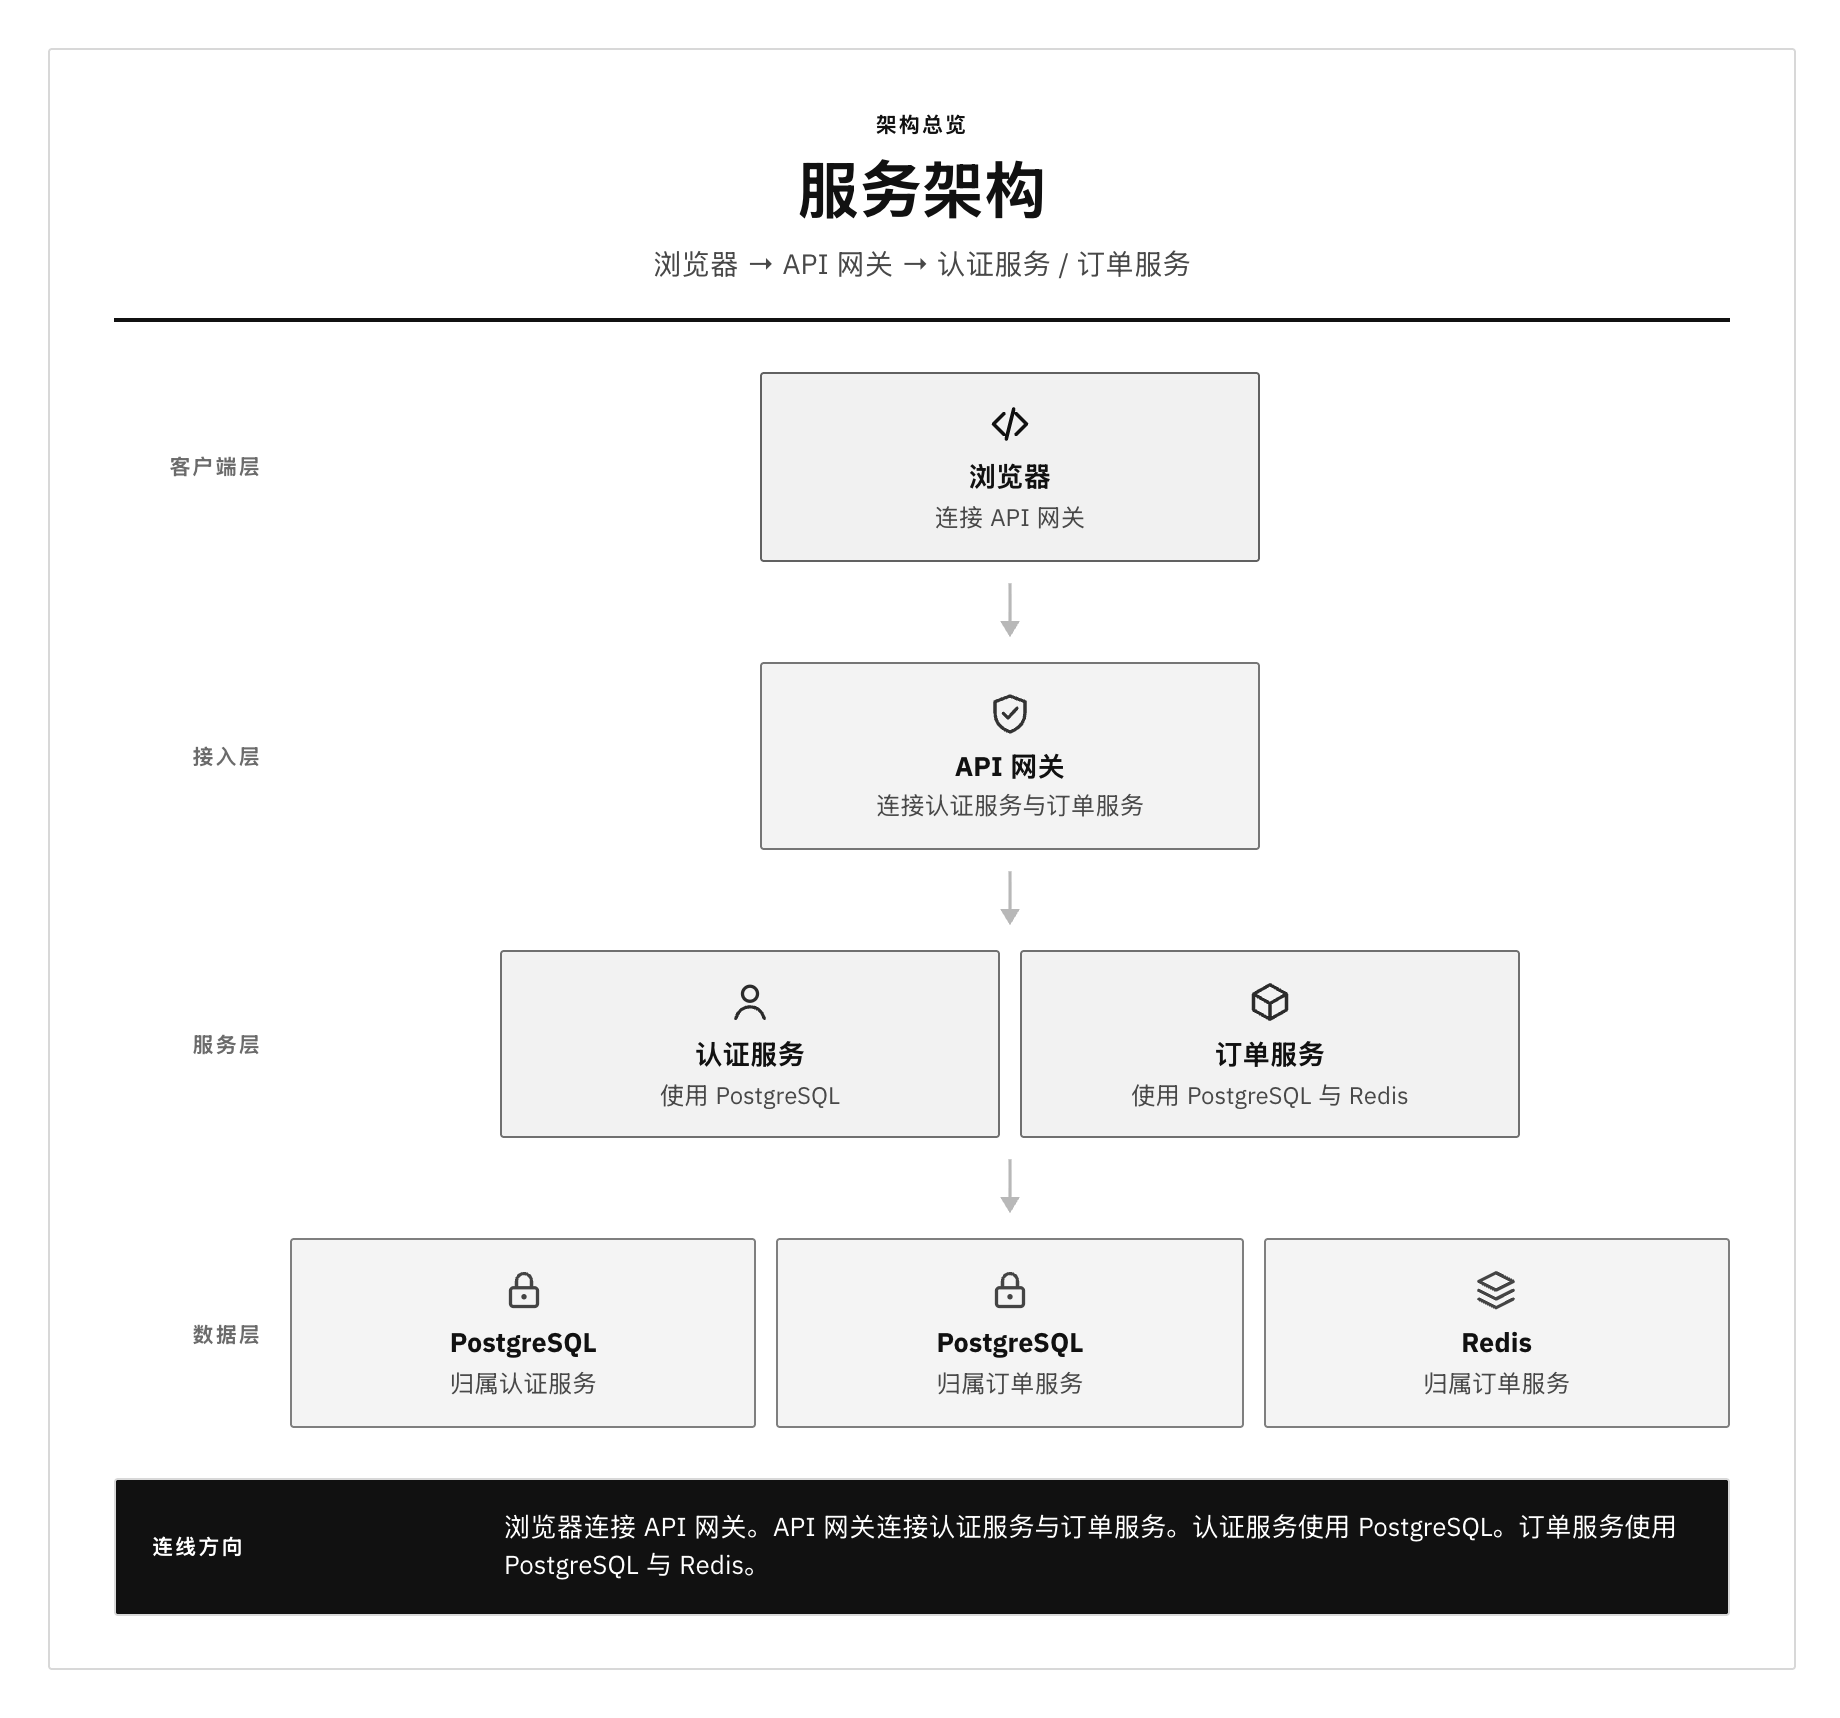
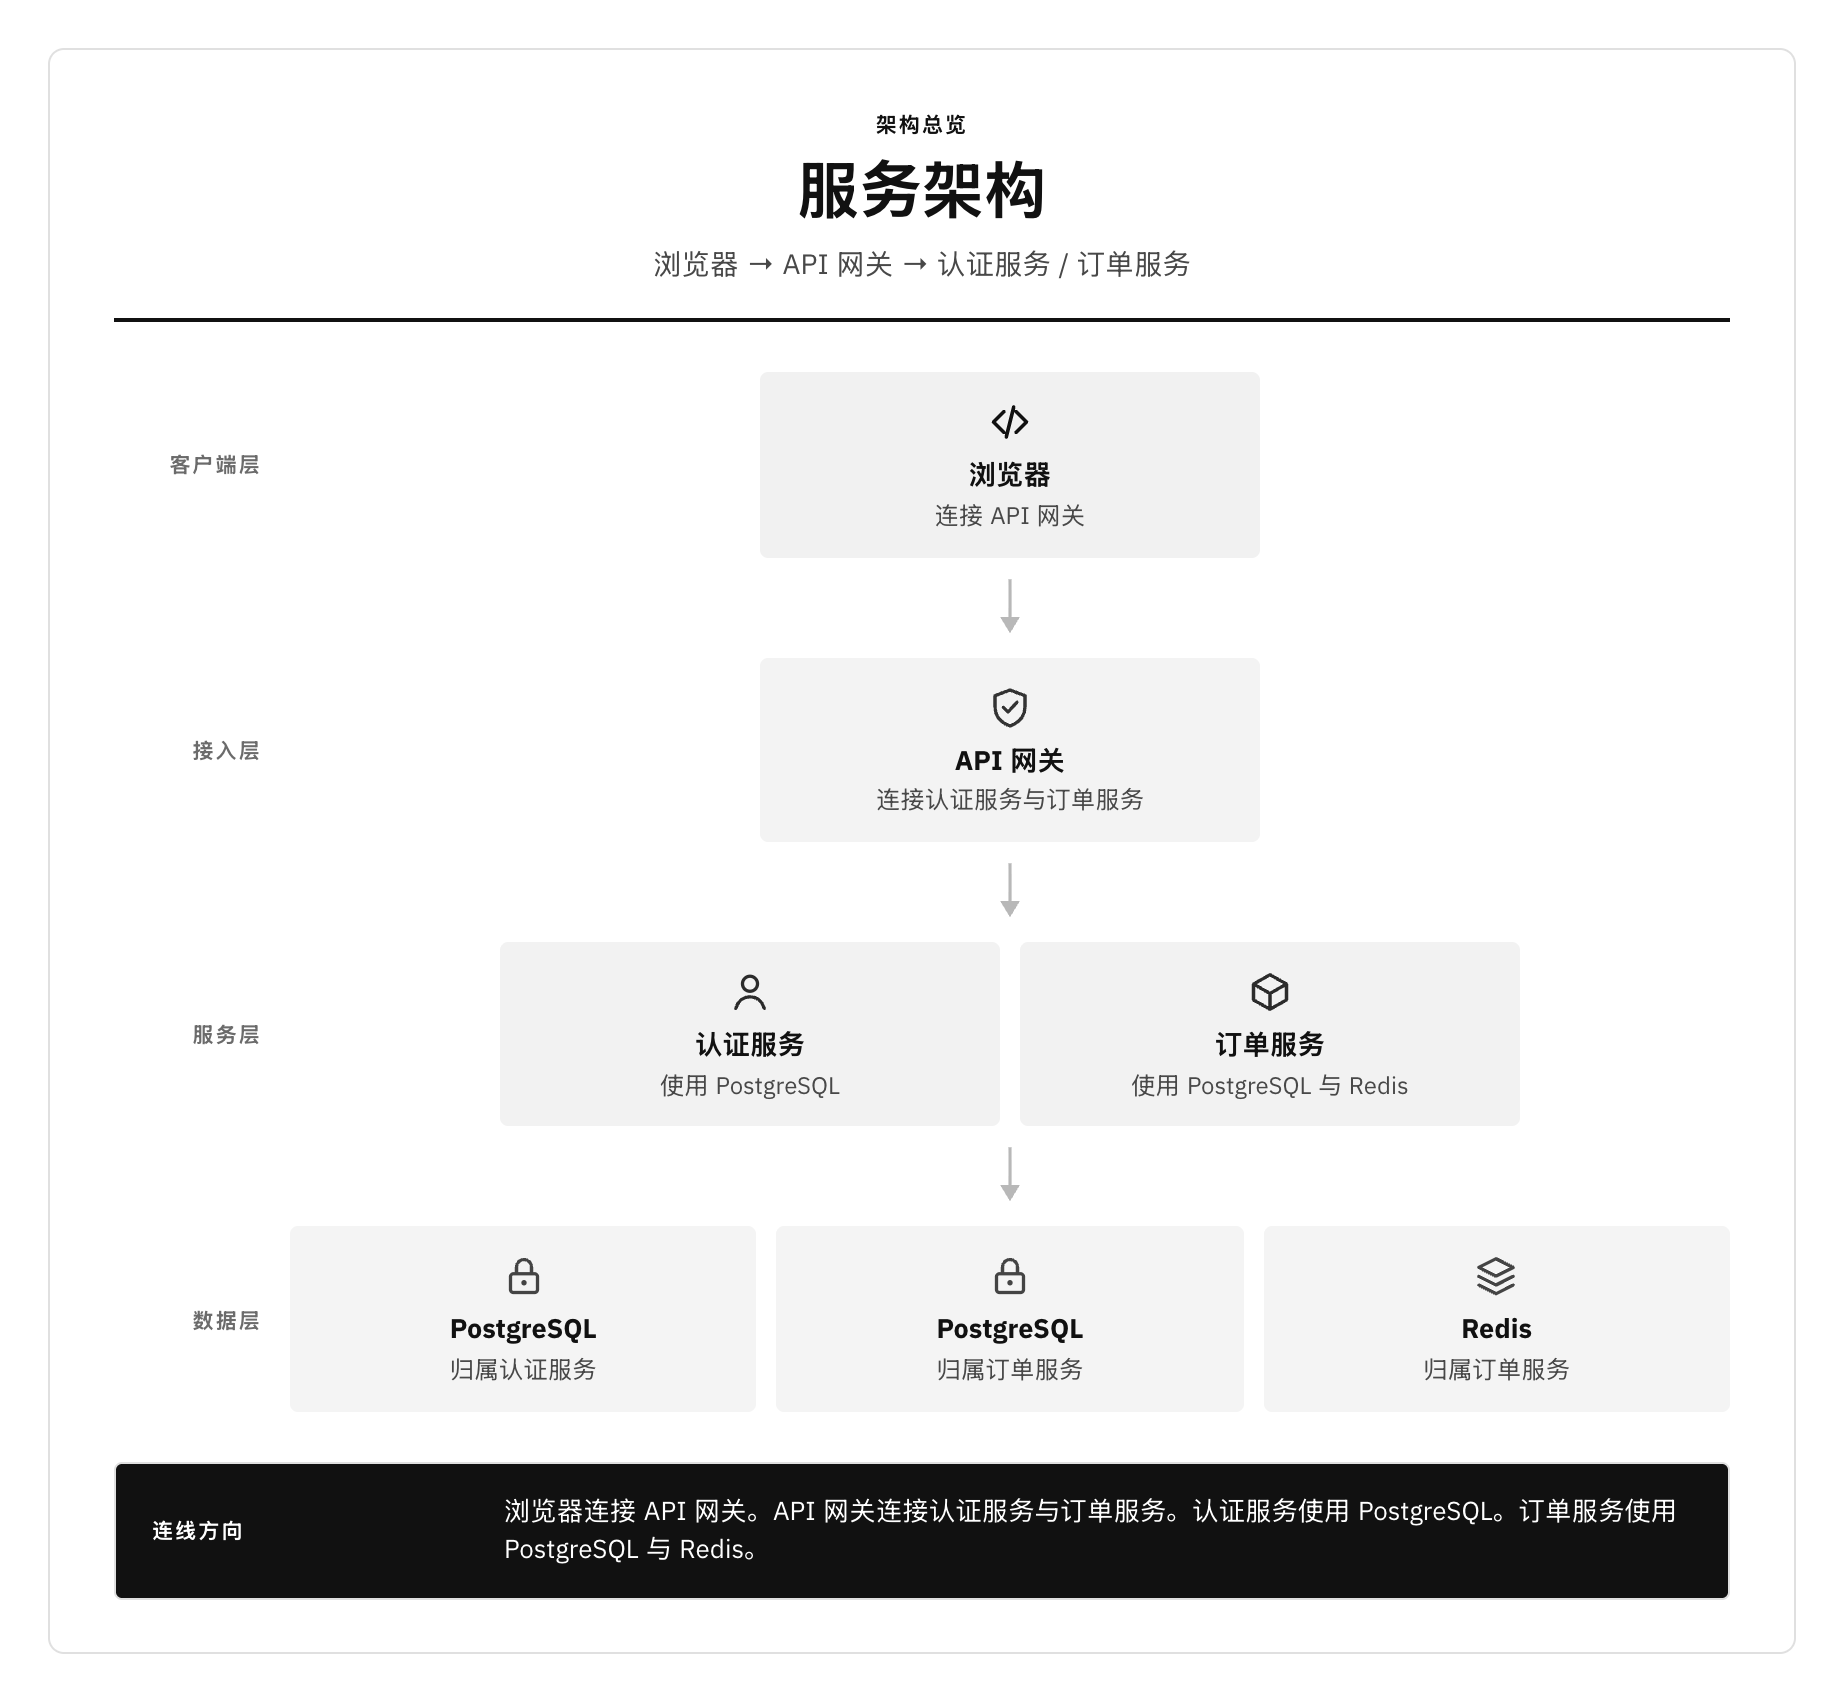
Tighten the minimal theme against its original no-colour direction
Cards soften to an 8px/4px radius on a #e0e0e0 hairline; the grey step ramp, flat no-shadow rule, and black takeaway banner stay as the identity, and the style guide now matches the shipped values.

diff --git a/skills/text2html2png/examples/plan-comparison-en.html b/skills/text2html2png/examples/plan-comparison-en.html
@@ -100,7 +100,7 @@
   --t-text: #111111;
   --t-text-secondary: #484848;
   --t-text-muted: #6b6b6b;
-  --t-border: #d8d8d8;
+  --t-border: #e0e0e0;
   --t-node-border: color-mix(in srgb, var(--tone) 60%, var(--t-border));
   --t-rule: #b8b8b8;
   --t-head-rule-image: #111111;
@@ -130,8 +130,8 @@
   --t-label-transform: uppercase;
   --t-data-size: 28px;
   --t-data-weight: 650;
-  --t-card-radius: 2px;
-  --t-small-radius: 2px;
+  --t-card-radius: 8px;
+  --t-small-radius: 4px;
   --t-border-width: 1px;
   --t-border-style: solid;
   --t-card-shadow: none;

diff --git a/skills/text2html2png/examples/plan-comparison-zh.html b/skills/text2html2png/examples/plan-comparison-zh.html
@@ -172,7 +172,7 @@
   --t-text: #111111;
   --t-text-secondary: #484848;
   --t-text-muted: #6b6b6b;
-  --t-border: #d8d8d8;
+  --t-border: #e0e0e0;
   --t-node-border: color-mix(in srgb, var(--tone) 60%, var(--t-border));
   --t-rule: #b8b8b8;
   --t-head-rule-image: #111111;
@@ -202,8 +202,8 @@
   --t-label-transform: uppercase;
   --t-data-size: 28px;
   --t-data-weight: 650;
-  --t-card-radius: 2px;
-  --t-small-radius: 2px;
+  --t-card-radius: 8px;
+  --t-small-radius: 4px;
   --t-border-width: 1px;
   --t-border-style: solid;
   --t-card-shadow: none;

diff --git a/skills/text2html2png/examples/service-architecture-en.html b/skills/text2html2png/examples/service-architecture-en.html
@@ -100,7 +100,7 @@
   --t-text: #111111;
   --t-text-secondary: #484848;
   --t-text-muted: #6b6b6b;
-  --t-border: #d8d8d8;
+  --t-border: #e0e0e0;
   --t-node-border: color-mix(in srgb, var(--tone) 60%, var(--t-border));
   --t-rule: #b8b8b8;
   --t-head-rule-image: #111111;
@@ -130,8 +130,8 @@
   --t-label-transform: uppercase;
   --t-data-size: 28px;
   --t-data-weight: 650;
-  --t-card-radius: 2px;
-  --t-small-radius: 2px;
+  --t-card-radius: 8px;
+  --t-small-radius: 4px;
   --t-border-width: 1px;
   --t-border-style: solid;
   --t-card-shadow: none;

diff --git a/skills/text2html2png/examples/service-architecture-zh.html b/skills/text2html2png/examples/service-architecture-zh.html
@@ -148,7 +148,7 @@
   --t-text: #111111;
   --t-text-secondary: #484848;
   --t-text-muted: #6b6b6b;
-  --t-border: #d8d8d8;
+  --t-border: #e0e0e0;
   --t-node-border: color-mix(in srgb, var(--tone) 60%, var(--t-border));
   --t-rule: #b8b8b8;
   --t-head-rule-image: #111111;
@@ -178,8 +178,8 @@
   --t-label-transform: uppercase;
   --t-data-size: 28px;
   --t-data-weight: 650;
-  --t-card-radius: 2px;
-  --t-small-radius: 2px;
+  --t-card-radius: 8px;
+  --t-small-radius: 4px;
   --t-border-width: 1px;
   --t-border-style: solid;
   --t-card-shadow: none;

diff --git a/skills/text2html2png/scripts/pipeline/themes/minimal.css b/skills/text2html2png/scripts/pipeline/themes/minimal.css
@@ -7,7 +7,7 @@
   --t-text: #111111;
   --t-text-secondary: #484848;
   --t-text-muted: #6b6b6b;
-  --t-border: #d8d8d8;
+  --t-border: #e0e0e0;
   --t-node-border: color-mix(in srgb, var(--tone) 60%, var(--t-border));
   --t-rule: #b8b8b8;
   --t-head-rule-image: #111111;
@@ -37,8 +37,8 @@
   --t-label-transform: uppercase;
   --t-data-size: 28px;
   --t-data-weight: 650;
-  --t-card-radius: 2px;
-  --t-small-radius: 2px;
+  --t-card-radius: 8px;
+  --t-small-radius: 4px;
   --t-border-width: 1px;
   --t-border-style: solid;
   --t-card-shadow: none;

diff --git a/CHANGELOG.md b/CHANGELOG.md
@@ -31,6 +31,7 @@ All notable changes to the public project will be documented here.
 - The `warm` theme realigned with its original warm-paper direction: an SVG `feTurbulence` paper-grain texture layered over the canvas gradients, the accent palette moved to saturated burnt-orange/gold/teal/purple/steel-blue/brown/forest-green hues (calibrated to the brightest values that still pass 4.5:1), a dark-brown gradient takeaway banner, and sand-gold leaders and dashed step arrows instead of plain gray rules.
 - The `editorial` theme realigned with its original magazine direction: a flat texture-free canvas, the accent palette moved to saturated rust/navy/gold/green/plum/petrol/taupe hues (calibrated to the brightest values that still pass 4.5:1), a deep-navy takeaway banner, a near-black masthead rule, neutral sand-grey card edges (new `--t-node-border` token keeps architecture nodes theme-tintable elsewhere), and a true italic lede — Lora 500 italic now ships as a real italic face when a theme requests one instead of a synthetic slant.
 - The `paper` theme realigned with its original notebook direction: ruled-line paper texture at a 27px pitch, translucent note cards with 2px dashed sand borders, a paper-yellow takeaway banner with a red-pen label, notebook-blue/red step accents (calibrated to the brightest values that still pass 4.5:1), and a handwritten lede via new `--t-lede-font`/`--t-lede-size` tokens.
+- The `minimal` theme audited against its original no-colour direction and tightened: cards soften to an 8px/4px radius on a #e0e0e0 hairline; the grey step ramp and no-shadow flat rule stay as the identity.
 
 ### Fixed
 

diff --git a/skills/text2html2png/references/styles/minimal.md b/skills/text2html2png/references/styles/minimal.md
@@ -25,25 +25,28 @@ Numbers: `'IBM Plex Mono', monospace` — weight 600
 
 ```css
 :root {
+  /* Base — the identity is "no colour": a seven-step grey ramp cycles
+     through chart accents, and emphasis comes from weight and borders. */
   --bg: #ffffff;
   --card-bg: #ffffff;
-  --text-primary: #1a1a1a;
-  --text-secondary: #555555;
-  --text-muted: #999999;
+  --text-primary: #111111;
+  --text-secondary: #484848;
+  --text-muted: #6b6b6b;
   --border-base: #e0e0e0;
-  --border-strong: #1a1a1a;
-  --accent: #1a1a1a;
-  --accent-blue: #1a1a1a;
-  --arrow-color: #555555;
+  --border-strong: #111111;
+  --accent: #111111;
+  --accent-blue: #111111;
+  --arrow-color: #b8b8b8;
+  --rule-color: #b8b8b8;
   --s1: #111111;
-  --s2: #2f2f2f;
-  --s3: #4a4a4a;
-  --s4: #666666;
-  --s5: #7a7a7a;
+  --s2: #2b2b2b;
+  --s3: #444444;
+  --s4: #5c5c5c;
+  --s5: #747474;
   --s6: #333333;
-  --s7: #595959;
-  --success: #2f2f2f;
-  --minor: #666666;
+  --s7: #515151;
+  --success: #2b2b2b;
+  --minor: #5c5c5c;
   --critical: #111111;
 }
 ```
@@ -92,7 +95,7 @@ body {
 ```css
 .card {
   background: var(--card-bg);
-  border: 1.5px solid var(--border-base);
+  border: 1px solid var(--border-base);
   border-radius: 8px;
   padding: 14px 16px;
 }
